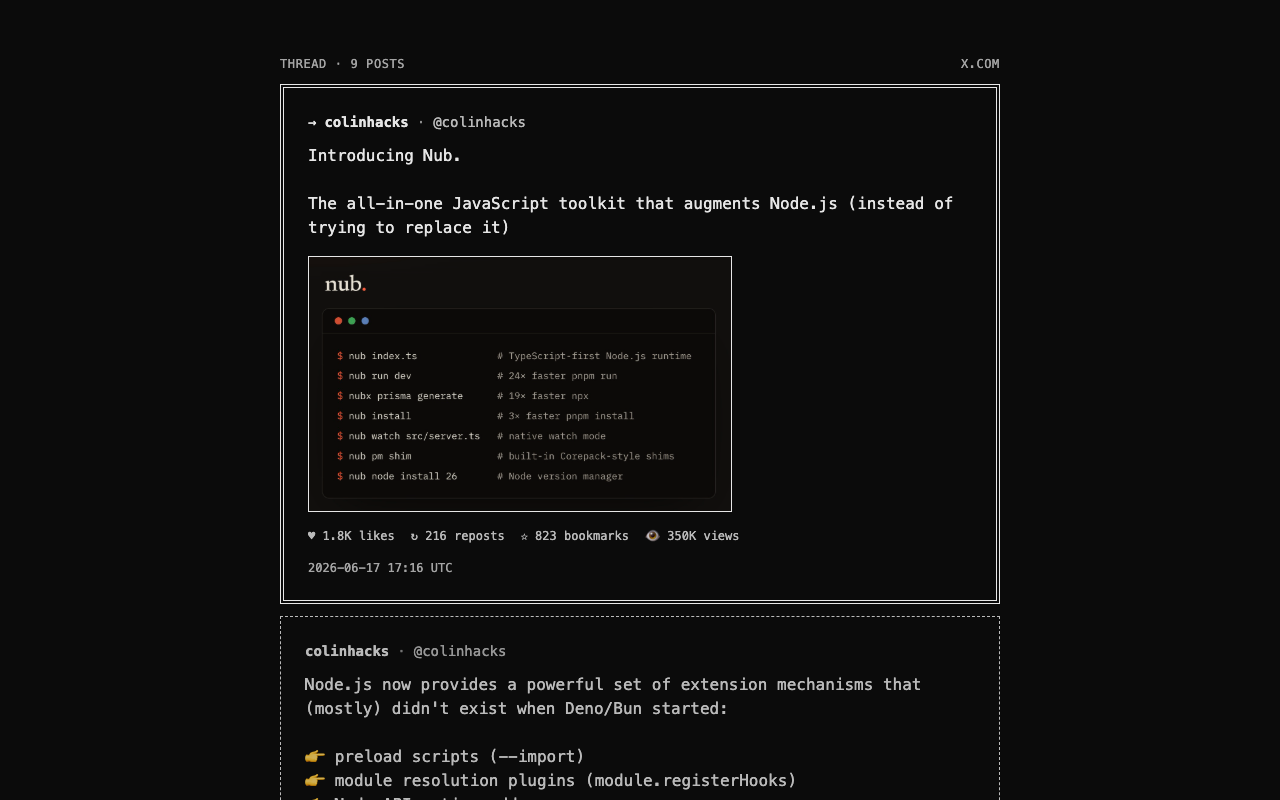
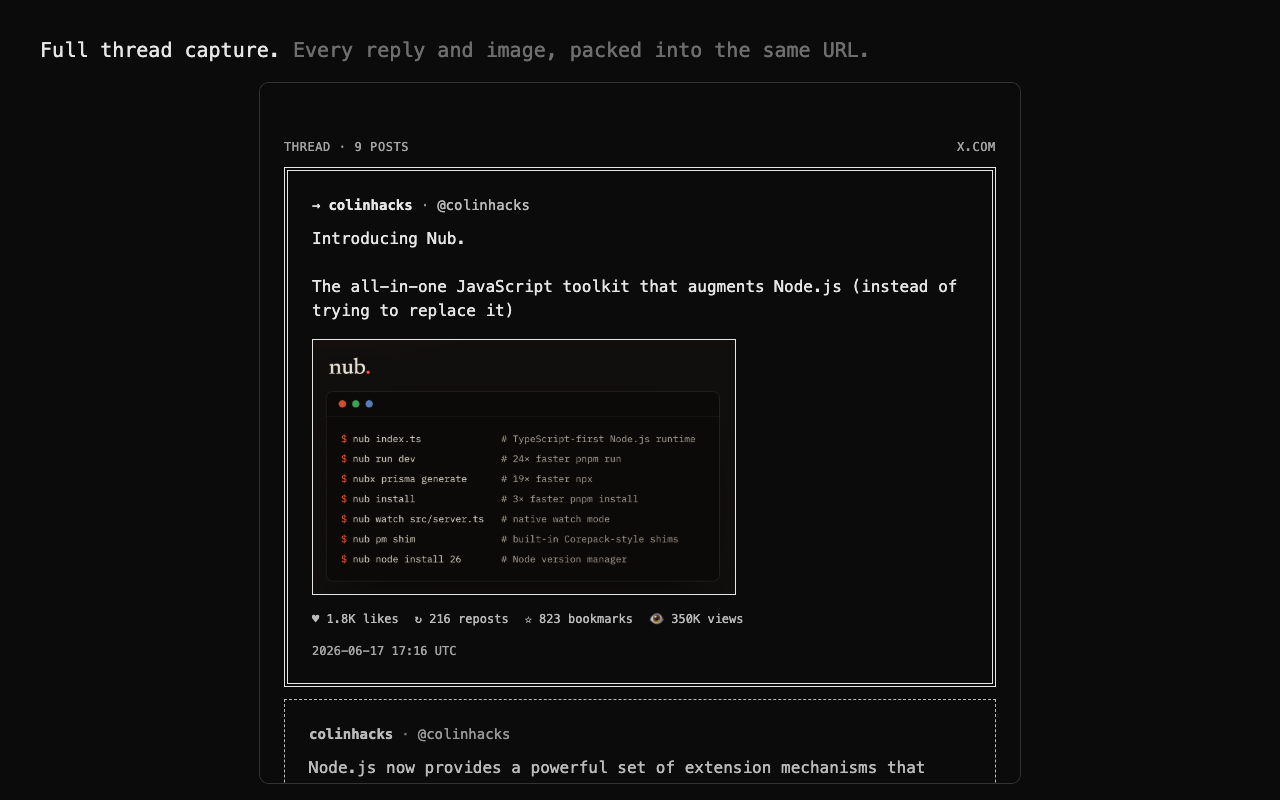
chore(store): finalize CWS submission assets
Replace the exploratory screenshots with the five submitted 1280x800 shots (clip/single/formats/thread/landing) in a shared header layout, add their generator scripts, and drop the superseded and launch-tweet assets. Refresh README and STORE docs to match.

Changed region(s): [[0.0312, 0.0312, 0.7812, 1.0], [0.75, 0.1562, 0.7812, 0.2188]]

diff --git a/assets/store/README.md b/assets/store/README.md
@@ -1,45 +1,45 @@
 # Store assets
 
-Art for the Chrome Web Store listing, checked into the repo. Regenerate with
-headless Chrome via `shot.mjs`.
+Art for the Chrome Web Store listing, checked into the repo. The five
+screenshots share one layout: a dark 1280×800 canvas with a descriptive header
+above framed content. Regenerate with headless Chrome via the scripts below.
 
 ## Files
 
-| File          | Size      | CWS slot                          |
-| ------------- | --------- | --------------------------------- |
-| `hero.png`    | 1280×800  | Screenshot — clean post card      |
-| `quote.png`   | 1280×800  | Screenshot — quoted-post card     |
-| `image.png`   | 1280×800  | Screenshot — post with images     |
-| `thread.png`  | 1280×800  | Screenshot — 9-post thread        |
-| `landing.png` | 1280×800  | Screenshot — how it works         |
-| `tile.png`    | 440×280   | Small promo tile                  |
-| `marquee.png` | 1400×560  | Marquee promo (featured listings) |
-
-The `128×128` store icon is already in `apps/extension/public/icon/128.png`.
+| File              | Size      | CWS slot                                    |
+| ----------------- | --------- | ------------------------------------------- |
+| `clip.png`        | 1280×800  | Screenshot — clip button in X's action bar  |
+| `single.png`      | 1280×800  | Screenshot — a post rendered as a card      |
+| `formats.png`     | 1280×800  | Screenshot — same link, card + Markdown     |
+| `thread.png`      | 1280×800  | Screenshot — full thread capture with image |
+| `landing.png`     | 1280×800  | Screenshot — how it works                   |
+| `icon-128.png`    | 128×128   | Store icon                                  |
+| `tile.png`        | 440×280   | Small promo tile                            |
+| `marquee.png`     | 1400×560  | Marquee promo (featured listings)           |
 
 ## Regenerate
 
 ```sh
-# Card screenshots (payload -> clipped.page URL -> PNG)
-node shot.mjs card hero.json
-node shot.mjs card quote.json
-node shot.mjs card image.json
+# Single-post + thread cards (live clipped.page renders in the header layout)
+node store-shots.mjs         # -> single.png, thread.png
 
-# Thread screenshot (full clip URL saved in thread.url)
-node shot.mjs urlfile thread.url thread.png
+# Same link, every format (rendered card + ?f=md Markdown)
+node formats-store.mjs       # -> formats.png
 
-# Page screenshots
+# Clip button, cropped from a real X-page screenshot (edit the crop rect / SRC
+# path in the script to point at your own capture)
+node clip-real.mjs           # -> clip.png
+
+# Landing page
 node shot.mjs url "https://clipped.page/" landing.png
 
-# Branded art
+# Branded promo art
 node shot.mjs url "file://$PWD/tile.html"    tile.png    440 280
 node shot.mjs url "file://$PWD/marquee.html" marquee.png 1400 560
 ```
 
-`shot.mjs` reproduces the shared codec (json → gzip → base64url) with Node's
-`zlib` so it can build a real clip URL without a browser, then renders it with
-headless Chrome at an exact pixel size.
-
-The `*.json` files are real posts (Matt Pocock, @mattpocockuk) and `thread.url`
-is a real 9-post thread (Colin McDonnell, @colinhacks), both captured with the
-extension. Swap them to refresh the screenshots.
+`store-shots.mjs` / `formats-store.mjs` iframe the live clipped.page renders of
+`jarred.url` and `thread.url` (a real post and a real thread captured with the
+extension). `shot.mjs` reproduces the shared codec (json → gzip → base64url)
+with Node's `zlib` so it can build a clip URL without a browser. The `128×128`
+store icon is a copy of `apps/extension/public/icon/128.png`.

diff --git a/assets/store/jarred.md b/assets/store/jarred.md
@@ -1,0 +1,15 @@
+**Jarred Sumner** @jarredsumner
+
+Here's a 1 GB memory reduction for very long Claude Code sessions
+
+Before: `() => controller.abort()`
+Fix: `controller.abort.bind(controller)`
+
+![image](https://pbs.twimg.com/media/HAC6tL5bEAEdy67?format=jpg&name=large)
+
+4.5K likes · 307 reposts · 1.7K bookmarks · 1.5M views
+
+Posted: 2026-02-01T05:01:49.000Z
+
+---
+Source: https://x.com/jarredsumner/status/2017825694731145388

diff --git a/apps/extension/STORE.md b/apps/extension/STORE.md
@@ -55,16 +55,16 @@ Clip a post on x.com into a self-contained, shareable URL that renders the post 
 
 ## Assets (in `assets/store/` at the repo root)
 
-All produced at exact CWS sizes via `assets/store/shot.mjs` (see its README):
+All produced at exact CWS sizes (see `assets/store/README.md` to regenerate):
 
-- `hero.png` (1280×800) — screenshot: clean post card
-- `quote.png` (1280×800) — screenshot: quoted-post card
-- `image.png` (1280×800) — screenshot: post with images
-- `thread.png` (1280×800) — screenshot: 9-post thread
+- `clip.png` (1280×800) — screenshot: clip button in X's action bar
+- `single.png` (1280×800) — screenshot: a post rendered as a card
+- `formats.png` (1280×800) — screenshot: same link, card + Markdown
+- `thread.png` (1280×800) — screenshot: full thread capture with image
 - `landing.png` (1280×800) — screenshot: how it works
+- `icon-128.png` (128×128) — store icon (copy of `public/icon/128.png`)
 - `tile.png` (440×280) — small promo tile
 - `marquee.png` (1400×560) — marquee promo (featured)
-- Store icon 128×128 ships in the package (`public/icon/128.png`)
 
 ## Submitting (manual — needs your Google login)
 